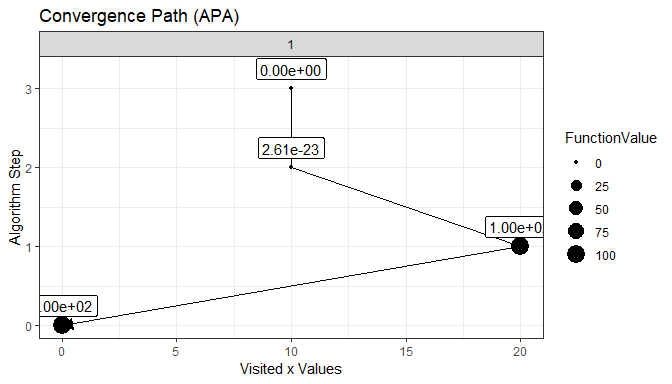
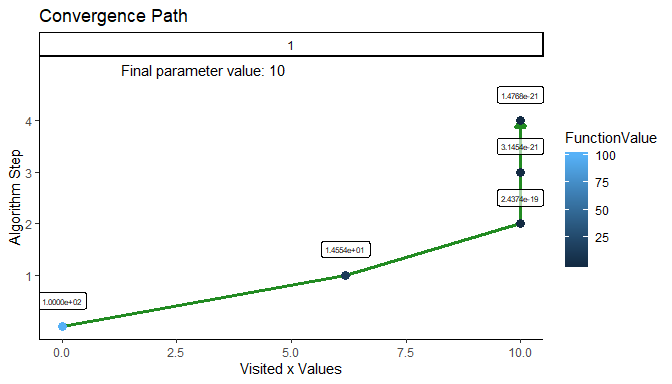
-

diff --git a/README.html b/README.html
@@ -7,6 +7,7 @@
 <meta charset="utf-8" />
 <meta http-equiv="Content-Type" content="text/html; charset=utf-8" />
 <meta name="generator" content="pandoc" />
+<meta http-equiv="X-UA-Compatible" content="IE=EDGE" />
 
 
 
@@ -69,9 +70,7 @@ h6 {
 </style>
 
 
-</head>
 
-<body>
 
 <style type="text/css">
 .main-container {
@@ -85,7 +84,6 @@ code {
 }
 img {
   max-width:100%;
-  height: auto;
 }
 .tabbed-pane {
   padding-top: 12px;
@@ -96,22 +94,80 @@ img {
 button.code-folding-btn:focus {
   outline: none;
 }
+summary {
+  display: list-item;
+}
 </style>
 
 
 
-<div class="container-fluid main-container">
-
 <!-- tabsets -->
-<script>
-$(document).ready(function () {
-  window.buildTabsets("TOC");
-});
-</script>
+
+<style type="text/css">
+.tabset-dropdown > .nav-tabs {
+  display: inline-table;
+  max-height: 500px;
+  min-height: 44px;
+  overflow-y: auto;
+  background: white;
+  border: 1px solid #ddd;
+  border-radius: 4px;
+}
+
+.tabset-dropdown > .nav-tabs > li.active:before {
+  content: "";
+  font-family: 'Glyphicons Halflings';
+  display: inline-block;
+  padding: 10px;
+  border-right: 1px solid #ddd;
+}
+
+.tabset-dropdown > .nav-tabs.nav-tabs-open > li.active:before {
+  content: "";
+  border: none;
+}
+
+.tabset-dropdown > .nav-tabs.nav-tabs-open:before {
+  content: "";
+  font-family: 'Glyphicons Halflings';
+  display: inline-block;
+  padding: 10px;
+  border-right: 1px solid #ddd;
+}
+
+.tabset-dropdown > .nav-tabs > li.active {
+  display: block;
+}
+
+.tabset-dropdown > .nav-tabs > li > a,
+.tabset-dropdown > .nav-tabs > li > a:focus,
+.tabset-dropdown > .nav-tabs > li > a:hover {
+  border: none;
+  display: inline-block;
+  border-radius: 4px;
+}
+
+.tabset-dropdown > .nav-tabs.nav-tabs-open > li {
+  display: block;
+  float: none;
+}
+
+.tabset-dropdown > .nav-tabs > li {
+  display: none;
+}
+</style>
 
 <!-- code folding -->
 
 
+
+
+</head>
+
+<body>
+
+
+<div class="container-fluid main-container">
 
 
 
@@ -171,25 +227,25 @@ quadratic &lt;- function(x, center, precBits=64) {
 optim_DFP_APA(starts=0, func=quadratic, center=10, precBits = 64)</code></pre>
 <pre><code>## $x
 ## 'mpfrMatrix' of dim(.) =  (1, 1) of precision  64   bits 
-##      [,1]                 
-## [1,] 10.000000000000000000
+##      [,1]                  
+## [1,] 9.99999999996157024670
 ## 
 ## $f
 ## 'mpfrMatrix' of dim(.) =  (1, 1) of precision  64   bits 
-##      [,1]                 
-## [1,] 0.0000000000000000000
+##      [,1]                      
+## [1,] 1.47684593894512519704e-21
 ## 
 ## $grad
 ## 1 'mpfr' number of precision  64   bits 
-## [1] 0
+## [1] -7.68595066064081677837e-11
 ## 
 ## $inv_Hessian
 ## 'mpfrMatrix' of dim(.) =  (1, 1) of precision  64   bits 
-##      [,1]                  
-## [1,] 0.50000000000226056695
+##      [,1]                   
+## [1,] 0.500000000000000000000
 ## 
 ## $steps
-## [1] 3
+## [1] 4
 ## 
 ## $converged
 ## [1] TRUE</code></pre>
@@ -207,18 +263,18 @@ optim_DFP_NAPA(starts=0, func=quadratic_NAPA, center=10)</code></pre>
 ## [1,]   10
 ## 
 ## $f
-##      [,1]
-## [1,]    0
+##              [,1]
+## [1,] 4.416905e-20
 ## 
 ## $grad
-## [1] 0
+## [1] 4.203287e-10
 ## 
 ## $inv_Hessian
 ##      [,1]
 ## [1,]  0.5
 ## 
 ## $steps
-## [1] 3
+## [1] 2
 ## 
 ## $converged
 ## [1] TRUE</code></pre>
@@ -250,15 +306,19 @@ op &lt;- optim_DFP_NAPA(starts=0, func=quadratic_NAPA, center=10, keepValues = T
 
 # convergence path plot:
 plotConvergence(op) + ggtitle(&quot;Convergence Path&quot;)</code></pre>
[2 lines of base64/hex data omitted]
 <p>And the same for the APA version:</p>
 <pre class="r"><code># just set keepValues to TRUE to keep every visited value
 op &lt;- optim_DFP_APA(starts=0, func=quadratic, center=10, keepValues = TRUE)
 
 # convergence path plot:
 plotConvergence(op)</code></pre>
[2 lines of base64/hex data omitted]
 </div>
+</div>
+<div id="how-to-cite" class="section level1">
+<h1>How to Cite</h1>
+<p>Parker, M.R.P. (2020). optimizeAPA: An R Package for Arbitrary Precision Optimization of Multi-parameter Functions. R package version 1.0.1. <a href="https://github.com/mrparker909/optimizeAPA" class="uri">https://github.com/mrparker909/optimizeAPA</a></p>
 </div>
 
 
@@ -278,6 +338,23 @@ $(document).ready(function () {
 
 
 </script>
+
+<!-- tabsets -->
+
+<script>
+$(document).ready(function () {
+  window.buildTabsets("TOC");
+});
+
+$(document).ready(function () {
+  $('.tabset-dropdown > .nav-tabs > li').click(function () {
+    $(this).parent().toggleClass('nav-tabs-open')
+  });
+});
+</script>
+
+<!-- code folding -->
+
 
 <!-- dynamically load mathjax for compatibility with self-contained -->
 <script>

diff --git a/README.md b/README.md
@@ -56,25 +56,25 @@ optim_DFP_APA(starts=0, func=quadratic, center=10, precBits = 64)
 ```
 ## $x
 ## 'mpfrMatrix' of dim(.) =  (1, 1) of precision  64   bits 
-##      [,1]                 
-## [1,] 10.000000000000000000
+##      [,1]                  
+## [1,] 9.99999999996157024670
 ## 
 ## $f
 ## 'mpfrMatrix' of dim(.) =  (1, 1) of precision  64   bits 
-##      [,1]                 
-## [1,] 0.0000000000000000000
+##      [,1]                      
+## [1,] 1.47684593894512519704e-21
 ## 
 ## $grad
 ## 1 'mpfr' number of precision  64   bits 
-## [1] 0
+## [1] -7.68595066064081677837e-11
 ## 
 ## $inv_Hessian
 ## 'mpfrMatrix' of dim(.) =  (1, 1) of precision  64   bits 
-##      [,1]                  
-## [1,] 0.50000000000226056695
+##      [,1]                   
+## [1,] 0.500000000000000000000
 ## 
 ## $steps
-## [1] 3
+## [1] 4
 ## 
 ## $converged
 ## [1] TRUE
@@ -100,18 +100,18 @@ optim_DFP_NAPA(starts=0, func=quadratic_NAPA, center=10)
 ## [1,]   10
 ## 
 ## $f
-##      [,1]
-## [1,]    0
+##              [,1]
+## [1,] 4.416905e-20
 ## 
 ## $grad
-## [1] 0
+## [1] 4.203287e-10
 ## 
 ## $inv_Hessian
 ##      [,1]
 ## [1,]  0.5
 ## 
 ## $steps
-## [1] 3
+## [1] 2
 ## 
 ## $converged
 ## [1] TRUE
@@ -156,7 +156,7 @@ op <- optim_DFP_NAPA(starts=0, func=quadratic_NAPA, center=10, keepValues = TRUE
 plotConvergence(op) + ggtitle("Convergence Path")
 ```
 
-![](README_files/figure-html/unnamed-chunk-4-1.png)<!-- -->
+![](README_files/figure-html/unnamed-chunk-4-1.png)<!-- -->![](README_files/figure-html/unnamed-chunk-4-2.png)<!-- -->
 
 And the same for the APA version:
 
@@ -170,3 +170,12 @@ plotConvergence(op)
 ```
 
 ![](README_files/figure-html/unnamed-chunk-5-1.png)<!-- -->
+
+
+
+
+# How to Cite
+
+Parker, M.R.P. (2020). optimizeAPA: An R Package for Arbitrary Precision Optimization of Multi-parameter Functions. R package version 1.0.1. https://github.com/mrparker909/optimizeAPA
+
+
